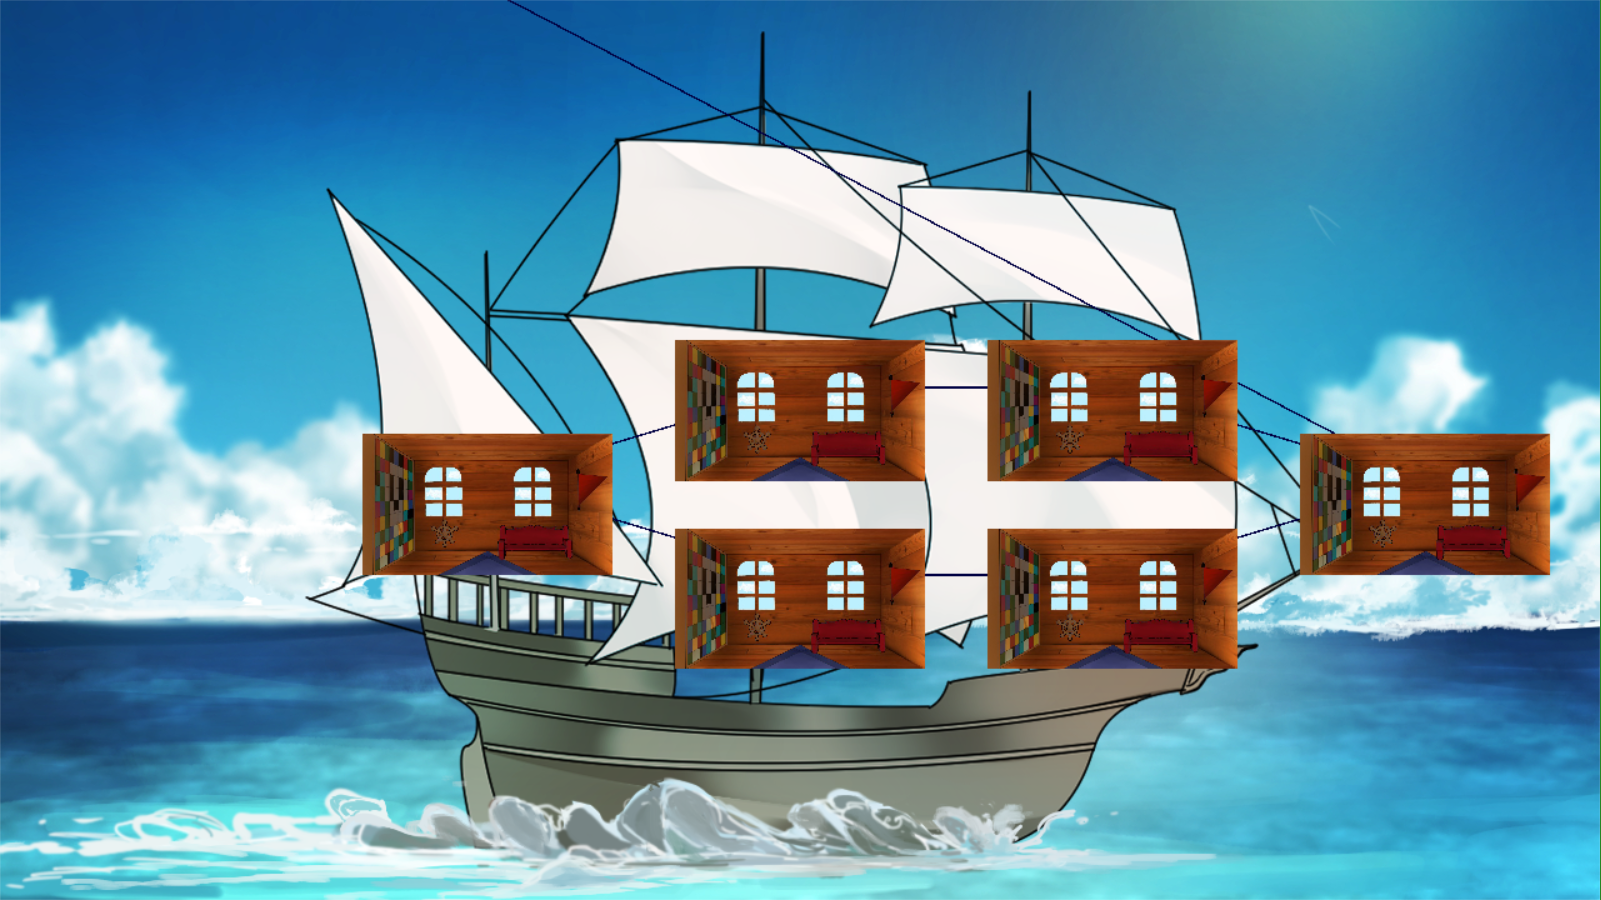
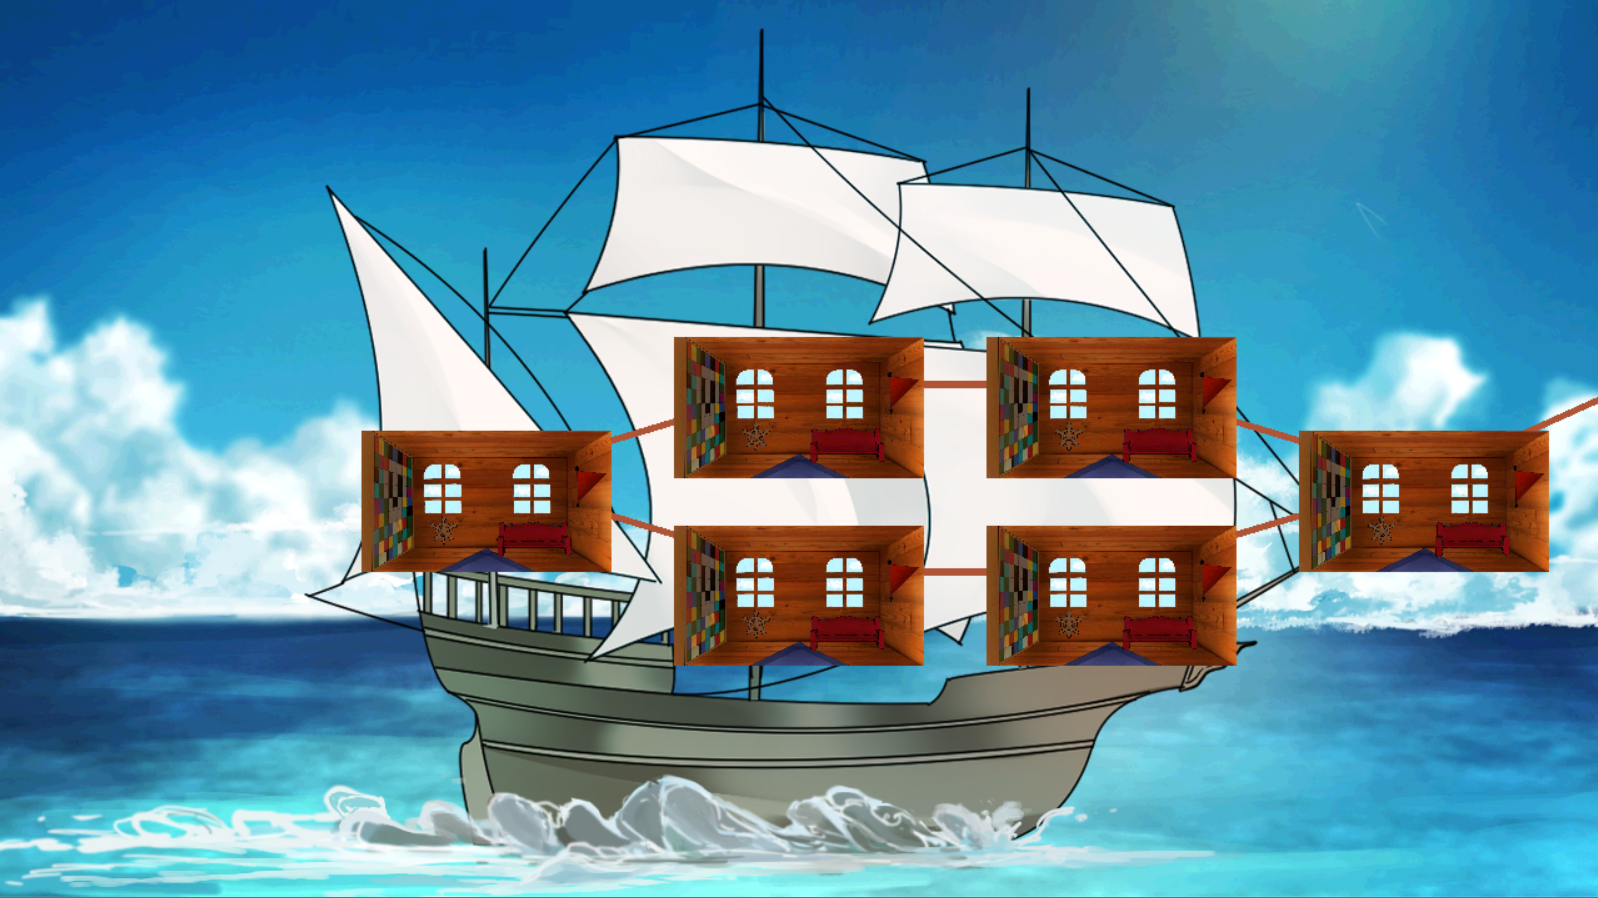
[update] レベルデザイン

diff --git a/src/GameMgr.h b/src/GameMgr.h
@@ -35,8 +35,8 @@
 　竹内 大奈
 ********************************************************/
 
-#define SPAWN_COOLTIME_MAX 200    //  Randで0~200
-#define SPAWN_COOLTIME_MIN 300    //  MOVE_COOLTIME_MAXに固定+300
+#define SPAWN_COOLTIME_MAX 200    //  Randで0~150
+#define SPAWN_COOLTIME_MIN 250    //  MOVE_COOLTIME_MAXに固定+100
 
 class cGameMgr : public cBaseScene{
 
@@ -82,7 +82,7 @@ private:
 	int m_spawnCoolTime = 0;	// m_spawnCntの最大数こきめる
 
 	const int TIME_LIMIT_WAIT = 10;
-	const int TIME_LIMIT_GAME = 120;	//時間制限	TODO:MAPから情報を受け取る
+	const int TIME_LIMIT_GAME = 61;	//時間制限	TODO:MAPから情報を受け取る
 
 	/*****************************************************
 	名前　：void EscortDamageCalc();

diff --git a/src/UnitMgr.h b/src/UnitMgr.h
@@ -5,6 +5,7 @@
 #include "PlayerUnit.h"
 #include "EnemyUnit.h"
 #include "Constant.h"
+#include "ColorListh.h"
 #include "PSord.h"
 #include "PArcher.h"
 #include "PDefense.h"
@@ -31,8 +32,8 @@ using namespace std;
 #ifndef _INCLUED_UNIT_MGR_
 #define _INCLUED_UNIT_MGR_
 
-#define MOVE_COOLTIME_MAX 500    //  Randで0~500
-#define MOVE_COOLTIME_MIN 300    //  MOVE_COOLTIME_MAXに固定+300
+#define MOVE_COOLTIME_MAX 300    //  Randで0~500
+#define MOVE_COOLTIME_MIN 250    //  MOVE_COOLTIME_MAXに固定+300
 
 class cUnitMgr : public cBaseTask{
 

diff --git a/src/MapMgr.cpp b/src/MapMgr.cpp
@@ -135,6 +135,11 @@ void cMapMgr::Draw(){
 		DrawLine3D(VAdd(tmp1, { 0,-1,0 }), VAdd(tmp2, { 0,-1,0 }), BR);
 		DrawLine3D(VAdd(tmp1, { 0,2,0 }), VAdd(tmp2, { 0,2,0 }), BR);
 		DrawLine3D(VAdd(tmp1, { 0,-2,0 }), VAdd(tmp2, { 0,-2,0 }), BR);
+
+		DrawLine3D(VAdd(tmp1, { 1,0,0 }), VAdd(tmp2, { 1,0,0 }), BR);
+		DrawLine3D(VAdd(tmp1, { -1,0,0 }), VAdd(tmp2, { -1,0,0 }), BR);
+		DrawLine3D(VAdd(tmp1, { 2,0,0 }), VAdd(tmp2, { 2,0,0 }), BR);
+		DrawLine3D(VAdd(tmp1, { -2,0,0 }), VAdd(tmp2, { -2,0,0 }), BR);
 	}
 
 

diff --git a/src/UnitMgr.cpp b/src/UnitMgr.cpp
@@ -176,7 +176,12 @@ void cUnitMgr::Draw(){
 		}
 	}
 
+	
 	m_geneUI->Draw();
+
+	SetFontSize(30);
+	DrawFormatString(760, 50, WH, "BreakCnt %d / ClearBreakCnt %d", m_dieEnemyCount, m_dieEnemyNum);
+
 
 #ifdef UNIT_MGR_DEBUG
 	//DrawFormatString(100, 100, GetColor(255, 0, 0), "roomPlayer:%d", roomPlayer.size());

diff --git a/src/ESord.h b/src/ESord.h
@@ -29,10 +29,10 @@ public:
 		m_pos.z = 0.0f;
 		m_num = _num;
 		m_room = _room;
-		m_hp = 300;
-		m_atk = 50;
+		m_hp = 350;
+		m_atk = 80;
 		m_speed = 0.25;
-		m_atkCoolTime = 200;
+		m_atkCoolTime = 250;
 		m_imgNum = 0;
 		m_moveCnt = 0;
 		m_direction = U_LEFT;

diff --git a/src/EArcher.h b/src/EArcher.h
@@ -26,8 +26,8 @@ public:
 		m_pos.z = 0.0f;
 		m_num = _num;
 		m_room = _room;
-		m_hp = 200;
-		m_atk = 100;
+		m_hp = 250;
+		m_atk = 150;
 		m_speed = 0.25;
 		m_atkCoolTime = 500;
 		m_imgNum = 0;
